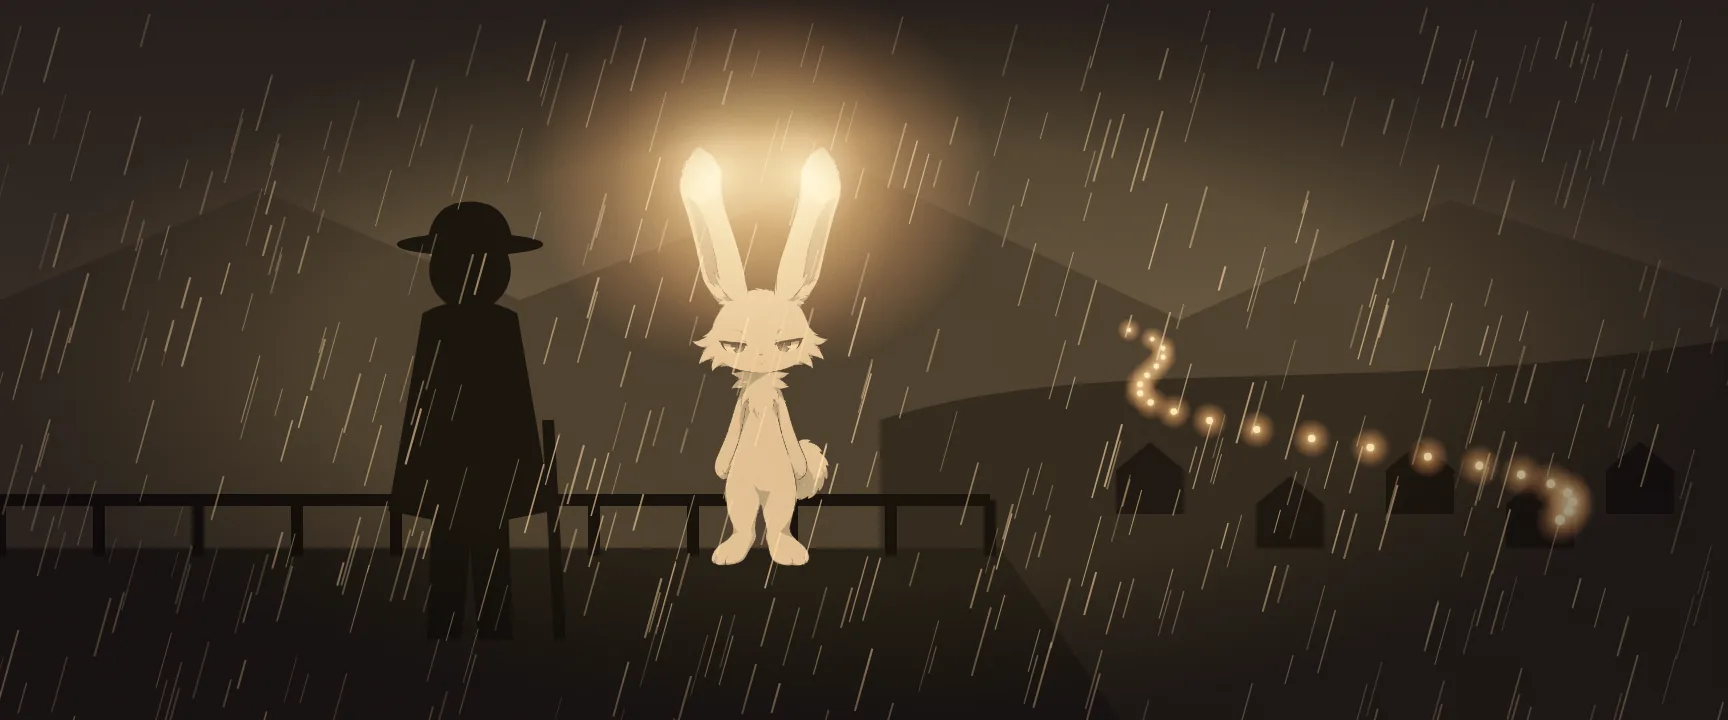
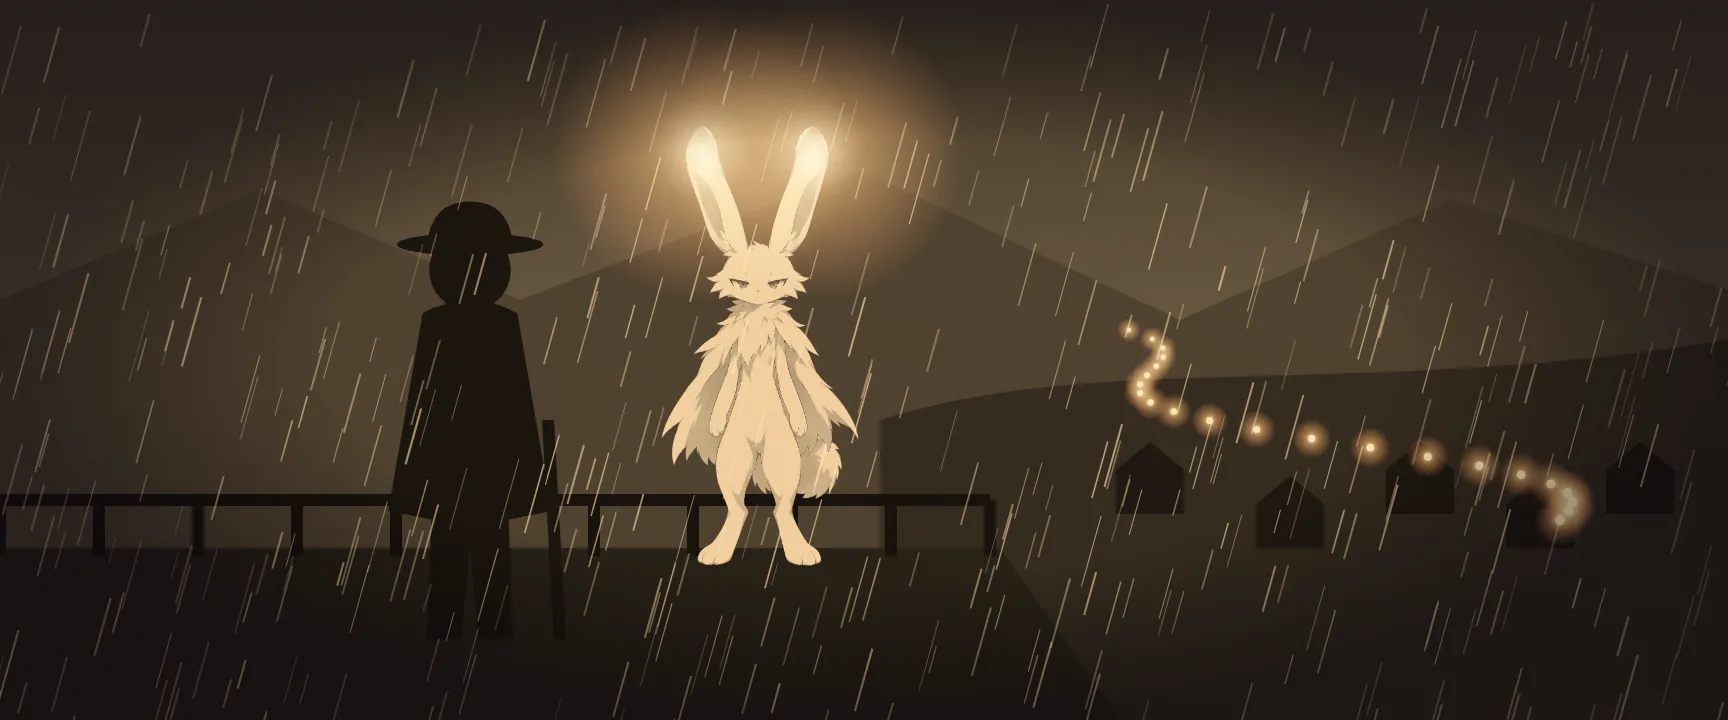
Add art for three monsters and update related scenes

Changed region(s): [[0.3125, 0.1833, 0.5625, 0.7944]]

diff --git a/index.html b/index.html
@@ -8,16 +8,16 @@
 <link rel="preconnect" href="https://fonts.googleapis.com">
 <link rel="preconnect" href="https://fonts.gstatic.com" crossorigin>
 <link rel="stylesheet" href="https://fonts.googleapis.com/css2?family=Zen+Kaku+Gothic+New:wght@500;700;900&family=Shippori+Mincho+B1:wght@800&display=swap">
-<link rel="stylesheet" href="style.css?v=mwvvmsid">
+<link rel="stylesheet" href="style.css?v=mwvvzkbk">
 <link rel="manifest" href="manifest.webmanifest">
-<link rel="icon" href="icons/icon-192.png?v=mwvvmsid">
-<link rel="apple-touch-icon" href="icons/apple-touch-icon.png?v=mwvvmsid">
+<link rel="icon" href="icons/icon-192.png?v=mwvvzkbk">
+<link rel="apple-touch-icon" href="icons/apple-touch-icon.png?v=mwvvzkbk">
 <meta name="description" content="消えかけた灯りを、モンスターと一緒にもう一度ともしていく、横画面のRPG。">
 <meta property="og:type" content="website">
 <meta property="og:title" content="シャープワールド">
 <meta property="og:description" content="消えかけた灯りを、モンスターと一緒にもう一度ともしていく、横画面のRPG。">
 <meta property="og:url" content="https://kaz-ma.github.io/sharp-world/">
-<meta property="og:image" content="https://kaz-ma.github.io/sharp-world/og.jpg?v=mwvvmsid">
+<meta property="og:image" content="https://kaz-ma.github.io/sharp-world/og.jpg?v=mwvvzkbk">
 <meta property="og:image:width" content="1200">
 <meta property="og:image:height" content="630">
 <meta name="twitter:card" content="summary_large_image">
@@ -39,24 +39,24 @@
   <div id="xfer" class="hidden"><div class="xbox"><p id="xtitle"></p><textarea id="xta" rows="6" spellcheck="false" autocapitalize="off" autocomplete="off"></textarea><div class="xrow"><button id="xcopy" type="button">コピー</button><button id="xpaste" type="button">はりつける</button><button id="xok" type="button">よみこむ</button><button id="xclose" type="button">とじる</button></div><p id="xmsg"></p></div></div>
   <div id="rotate"><div class="rot-card"><div class="phone"></div><p>スマホを<b>よこむき</b>にしてね</p></div></div>
 </div>
-<script src="data.js?v=mwvvmsid"></script>
-<script src="art.js?v=mwvvmsid"></script>
-<script src="audio.js?v=mwvvmsid"></script>
-<script src="core.js?v=mwvvmsid"></script>
-<script src="sky.js?v=mwvvmsid"></script>
-<script src="life.js?v=mwvvmsid"></script>
-<script src="battle.js?v=mwvvmsid"></script>
-<script src="battlefx.js?v=mwvvmsid"></script>
-<script src="light.js?v=mwvvmsid"></script>
-<script src="chapter.js?v=mwvvmsid"></script>
-<script src="story.js?v=mwvvmsid"></script>
-<script src="ch4.js?v=mwvvmsid"></script>
-<script src="sides.js?v=mwvvmsid"></script>
-<script src="diary.js?v=mwvvmsid"></script>
-<script src="dex.js?v=mwvvmsid"></script>
-<script src="faces.js?v=mwvvmsid"></script>
-<script src="worldmap.js?v=mwvvmsid"></script>
-<script src="game.js?v=mwvvmsid"></script>
+<script src="data.js?v=mwvvzkbk"></script>
+<script src="art.js?v=mwvvzkbk"></script>
+<script src="audio.js?v=mwvvzkbk"></script>
+<script src="core.js?v=mwvvzkbk"></script>
+<script src="sky.js?v=mwvvzkbk"></script>
+<script src="life.js?v=mwvvzkbk"></script>
+<script src="battle.js?v=mwvvzkbk"></script>
+<script src="battlefx.js?v=mwvvzkbk"></script>
+<script src="light.js?v=mwvvzkbk"></script>
+<script src="chapter.js?v=mwvvzkbk"></script>
+<script src="story.js?v=mwvvzkbk"></script>
+<script src="ch4.js?v=mwvvzkbk"></script>
+<script src="sides.js?v=mwvvzkbk"></script>
+<script src="diary.js?v=mwvvzkbk"></script>
+<script src="dex.js?v=mwvvzkbk"></script>
+<script src="faces.js?v=mwvvzkbk"></script>
+<script src="worldmap.js?v=mwvvzkbk"></script>
+<script src="game.js?v=mwvvzkbk"></script>
 <script>if ('serviceWorker' in navigator && location.protocol === 'https:') navigator.serviceWorker.register('sw.js').catch(function () {});</script>
 </body>
 </html>

diff --git a/sw.js b/sw.js
@@ -1,5 +1,5 @@
-const CACHE = 'sharp-world-mwvvmsid';
-const FILES = ["./","index.html","manifest.webmanifest","style.css?v=mwvvmsid","data.js?v=mwvvmsid","art.js?v=mwvvmsid","audio.js?v=mwvvmsid","core.js?v=mwvvmsid","sky.js?v=mwvvmsid","life.js?v=mwvvmsid","battle.js?v=mwvvmsid","battlefx.js?v=mwvvmsid","light.js?v=mwvvmsid","chapter.js?v=mwvvmsid","story.js?v=mwvvmsid","ch4.js?v=mwvvmsid","sides.js?v=mwvvmsid","diary.js?v=mwvvmsid","dex.js?v=mwvvmsid","faces.js?v=mwvvmsid","worldmap.js?v=mwvvmsid","game.js?v=mwvvmsid","assets/bg_town4.webp","assets/ch0_bg.webp","assets/ch0_fg.webp","assets/ch0_tx.webp","assets/ch1_bg.webp","assets/ch1_fg.webp","assets/ch1_tx.webp","assets/ch2_bg.webp","assets/ch2_fg.webp","assets/ch2_tx.webp","assets/ch3_bg.webp","assets/ch3_fg.webp","assets/ch3_tx.webp","assets/ch4_bg.webp","assets/ch4_fg.webp","assets/ch4_tx.webp","assets/hinatagaeru.webp","assets/hotaruusagi.webp","assets/kinokokko.webp","assets/mem1.webp","assets/mem2.webp","assets/mem3.webp","assets/mikanya.webp","assets/op_1.webp","assets/op_2.webp","assets/op_3.webp","assets/op_4.webp","assets/op_5.webp","assets/op_logo.webp","assets/op_title.webp","assets/pukurisu.webp","assets/p_hero.webp","assets/p_hero_back.webp","assets/scene_sleep.webp","assets/scene_wake.webp","assets/shizukufin.webp","assets/side_forest.webp","assets/side_lake.webp","assets/side_ridge.webp","assets/side_ridge4.webp","assets/side_station.webp","icons/icon-192.png?v=mwvvmsid","icons/icon-512.png?v=mwvvmsid","icons/icon-maskable-512.png?v=mwvvmsid","icons/apple-touch-icon.png?v=mwvvmsid"];
+const CACHE = 'sharp-world-mwvvzkbk';
+const FILES = ["./","index.html","manifest.webmanifest","style.css?v=mwvvzkbk","data.js?v=mwvvzkbk","art.js?v=mwvvzkbk","audio.js?v=mwvvzkbk","core.js?v=mwvvzkbk","sky.js?v=mwvvzkbk","life.js?v=mwvvzkbk","battle.js?v=mwvvzkbk","battlefx.js?v=mwvvzkbk","light.js?v=mwvvzkbk","chapter.js?v=mwvvzkbk","story.js?v=mwvvzkbk","ch4.js?v=mwvvzkbk","sides.js?v=mwvvzkbk","diary.js?v=mwvvzkbk","dex.js?v=mwvvzkbk","faces.js?v=mwvvzkbk","worldmap.js?v=mwvvzkbk","game.js?v=mwvvzkbk","assets/bg_town4.webp","assets/birisuzume.webp","assets/ch0_bg.webp","assets/ch0_fg.webp","assets/ch0_tx.webp","assets/ch1_bg.webp","assets/ch1_fg.webp","assets/ch1_tx.webp","assets/ch2_bg.webp","assets/ch2_fg.webp","assets/ch2_tx.webp","assets/ch3_bg.webp","assets/ch3_fg.webp","assets/ch3_tx.webp","assets/ch4_bg.webp","assets/ch4_fg.webp","assets/ch4_tx.webp","assets/himoriusagi.webp","assets/hinatagaeru.webp","assets/hotaruusagi.webp","assets/kinokokko.webp","assets/mem1.webp","assets/mem2.webp","assets/mem3.webp","assets/mikanya.webp","assets/op_1.webp","assets/op_2.webp","assets/op_3.webp","assets/op_4.webp","assets/op_5.webp","assets/op_logo.webp","assets/op_title.webp","assets/pukurisu.webp","assets/p_hero.webp","assets/p_hero_back.webp","assets/scene_sleep.webp","assets/scene_wake.webp","assets/shizukufin.webp","assets/side_forest.webp","assets/side_lake.webp","assets/side_ridge.webp","assets/side_ridge4.webp","assets/side_station.webp","assets/yuuhineko.webp","icons/icon-192.png?v=mwvvzkbk","icons/icon-512.png?v=mwvvzkbk","icons/icon-maskable-512.png?v=mwvvzkbk","icons/apple-touch-icon.png?v=mwvvzkbk"];
 self.addEventListener('install', (e) => { e.waitUntil(caches.open(CACHE).then((c) => c.addAll(FILES)).then(() => self.skipWaiting())); });
 self.addEventListener('activate', (e) => { e.waitUntil(caches.keys().then((ks) => Promise.all(ks.filter((k) => k !== CACHE).map((k) => caches.delete(k)))).then(() => self.clients.claim())); });
 self.addEventListener('fetch', (e) => {

diff --git a/art.js b/art.js
@@ -168,7 +168,7 @@ const Art = (() => {
   };
 
   const imgs = {}, bgs = {};
-  const CUT = { shizukufin: { tol: 24, erode: 0 }, hinatagaeru: { tol: 30, erode: 0 }, mikanya: { tol: 34, erode: 0 }, pukurisu: { tol: 34, erode: 0 }, hotaruusagi: { tol: 34, erode: 0, soft: 0 }, kinokokko: { tol: 34, erode: 0 } }; // 取り込み絵ごとの背景ぬき設定
+  const CUT = { shizukufin: { tol: 24, erode: 0 }, hinatagaeru: { tol: 30, erode: 0 }, mikanya: { tol: 34, erode: 0 }, pukurisu: { tol: 34, erode: 0 }, hotaruusagi: { tol: 34, erode: 0, soft: 0 }, kinokokko: { tol: 34, erode: 0 }, himoriusagi: { tol: 30, erode: 0 }, yuuhineko: { tol: 34, erode: 0, holes: [[590, 396]] }, birisuzume: { tol: 34, erode: 0 } }; // 取り込み絵ごとの背景ぬき設定
   function removeBg(src, opt = {}) { // lab.jsと同じ方法: ふちから広がる背景色だけを透明にする
     const w = src.width, h = src.height, c = cv(w, h), g = c.getContext('2d', { willReadFrequently: true });
     g.drawImage(src, 0, 0);
@@ -186,6 +186,7 @@ const Art = (() => {
       const push = (x, y) => { const i = y * w + x; if (!seen[i] && near(i)) { seen[i] = 1; st.push(i); } };
       for (let x = 0; x < w; x++) { push(x, 0); push(x, h - 1); }
       for (let y = 0; y < h; y++) { push(0, y); push(w - 1, y); }
+      for (const [x, y] of opt.holes || []) push(x, y); // 毛や ひげに かこまれて ふちから 届かない すきま
       while (st.length) { const i = st.pop(), x = i % w, y = (i - x) / w; if (x > 0) push(x - 1, y); if (x < w - 1) push(x + 1, y); if (y > 0) push(x, y - 1); if (y < h - 1) push(x, y + 1); }
       for (let i = 0; i < w * h; i++) if (seen[i]) a[i] = 0;
       for (let k = 0; k < (opt.erode ?? 1); k++) { const b2 = a.slice(); for (let y = 1; y < h - 1; y++) for (let x = 1; x < w - 1; x++) { const i = y * w + x; if (a[i] && (!a[i - 1] || !a[i + 1] || !a[i - w] || !a[i + w])) b2[i] = 0; } a.set(b2); }

diff --git a/game.js b/game.js
@@ -605,7 +605,7 @@ function loop(t) {
   resize(); loadOp();
   try { await Promise.race([document.fonts.load('700 16px "Zen Kaku Gothic New"'), new Promise((r) => setTimeout(r, 1500))]); } catch (e) {}
   try { const o = JSON.parse(localStorage.getItem('mofu.opts') || '{}'); if (o.gl != null) { gradeLevel = o.gl; manualGrade = true; } } catch (e) {}
-  await Art.init(window.ART_SRC || { mikanya: 'assets/mikanya.webp', pukurisu: 'assets/pukurisu.webp', hotaruusagi: 'assets/hotaruusagi.webp', kinokokko: 'assets/kinokokko.webp', hinatagaeru: 'assets/hinatagaeru.webp', shizukufin: 'assets/shizukufin.webp', p_hero: 'assets/p_hero.webp', p_hero_back: 'assets/p_hero_back.webp', bg_town4: 'assets/bg_town4.webp' });
+  await Art.init(window.ART_SRC || { mikanya: 'assets/mikanya.webp', pukurisu: 'assets/pukurisu.webp', hotaruusagi: 'assets/hotaruusagi.webp', kinokokko: 'assets/kinokokko.webp', hinatagaeru: 'assets/hinatagaeru.webp', shizukufin: 'assets/shizukufin.webp', himoriusagi: 'assets/himoriusagi.webp', yuuhineko: 'assets/yuuhineko.webp', birisuzume: 'assets/birisuzume.webp', p_hero: 'assets/p_hero.webp', p_hero_back: 'assets/p_hero_back.webp', bg_town4: 'assets/bg_town4.webp' });
   { const m = /[?&]oto=(now|[a-e])(?:&|$)/.exec(location.search); if (m) Aud.setTheme(m[1]); } // 音の候補の ためしぎき
   mode = 'start'; startAt = 0; lastT = performance.now(); requestAnimationFrame(loop);
   await startScreen();

diff --git a/battlefx.js b/battlefx.js
@@ -69,7 +69,7 @@ function spriteBox(sp, s) { // 絵の 中で、キャラが ある 範囲
   return (boxes[sp] = x1 > x0 ? { x: x0, y: y0, w: x1 - x0, h: y1 - y0 } : { x: 0, y: 0, w: s.width, h: s.height });
 }
 // 目の 位置(絵の 範囲の中の 割合)と、寄る 大きさ
-const EYES = { mikanya: [0.40, 0.34, 600], hotaruusagi: [0.50, 0.49, 560], pukurisu: [0.23, 0.645, 900], kinokokko: [0.50, 0.52, 640], hinatagaeru: [0.50, 0.56, 620], shizukufin: [0.50, 0.58, 620] };
+const EYES = { mikanya: [0.40, 0.34, 600], hotaruusagi: [0.50, 0.49, 560], pukurisu: [0.23, 0.645, 900], kinokokko: [0.50, 0.52, 640], hinatagaeru: [0.50, 0.56, 620], shizukufin: [0.50, 0.58, 620], himoriusagi: [0.49, 0.357, 600], yuuhineko: [0.235, 0.269, 950], birisuzume: [0.496, 0.421, 440] };
 async function eyeCutin(mon, small, shiny) {
   const sp = mon.sp, base = SPECIES[sp].from || sp, [ex, ey, wide] = EYES[sp] || EYES[base] || [0.5, 0.42, 560], img = (shiny ? Art.shiny(sp) : Art.raw(sp)) || Art.sprites[sp], box = spriteBox(sp + (shiny ? '*' : ''), img);
   const col = TYPES[SPECIES[sp].t].color, t0 = clock; flushBtn(); ui.dialog = null;

diff --git a/oto.html b/oto.html
@@ -28,7 +28,7 @@
   <div id="towns"></div>
   <button class="stop" id="stop" type="button">とめる</button>
 </main>
-<script src="audio.js?v=mwvvmsid"></script>
+<script src="audio.js?v=mwvvzkbk"></script>
 <script>
 const SETS = [['pick', '★ いま ゲームで使っている音', '最初のタップは オルゴール。そのあと(コマ・題字・曲)は 90年代アニメ。'], ['now', '0 はじめの音', '鈴と低い和音。静かな曲。'], ['a', '1 オルゴール', '小さな箱のオルゴール。3拍子で、なつかしい感じ。'], ['b', '2 90年代アニメ', 'ドラムとシンセ。アニメの始まりのような、勢いのある感じ。'],
   ['c', '3 雨とピアノ', '雨の音と、ゆっくりしたピアノ。いちばん寂しく、落ち着いた感じ。'], ['d', '4 電子の灯り', '近未来の電子音。広がりと、こだまがある感じ。'], ['e', '5 和の夕暮れ', 'こと・風鈴・太鼓。日本の夕方のような感じ。']];

diff --git a/battle.js b/battle.js
@@ -48,6 +48,7 @@ const ss = () => ({ ox: 0, oy: 0, sx: 1, sy: 1, a: 1, flash: 0, vis: true, rot: 
 const tmpC = document.createElement('canvas'); tmpC.width = tmpC.height = 384; const tmp = tmpC.getContext('2d');
 function drawMon(sp, cx, bot, size, st, seed, isShiny) {
   const spr = isShiny ? (Art.shiny(sp) || Art.sprites[sp]) : Art.sprites[sp]; if (!spr || !st.vis || st.a <= 0) return;
+  if (SPECIES[sp].from) size *= 1.14; // 進化した 子は ひとまわり 大きく
   const br = Math.sin(clock * 2.3 + seed), k = size / 192;
   g.save(); g.globalAlpha = clamp(st.a, 0, 1);
   g.fillStyle = 'rgba(40,80,30,.25)'; g.beginPath(); g.ellipse(cx + st.ox * 0.7, bot - 2, size * 0.37 * Math.max(0.2, st.sx), size * 0.065, 0, 0, 7); g.fill();
